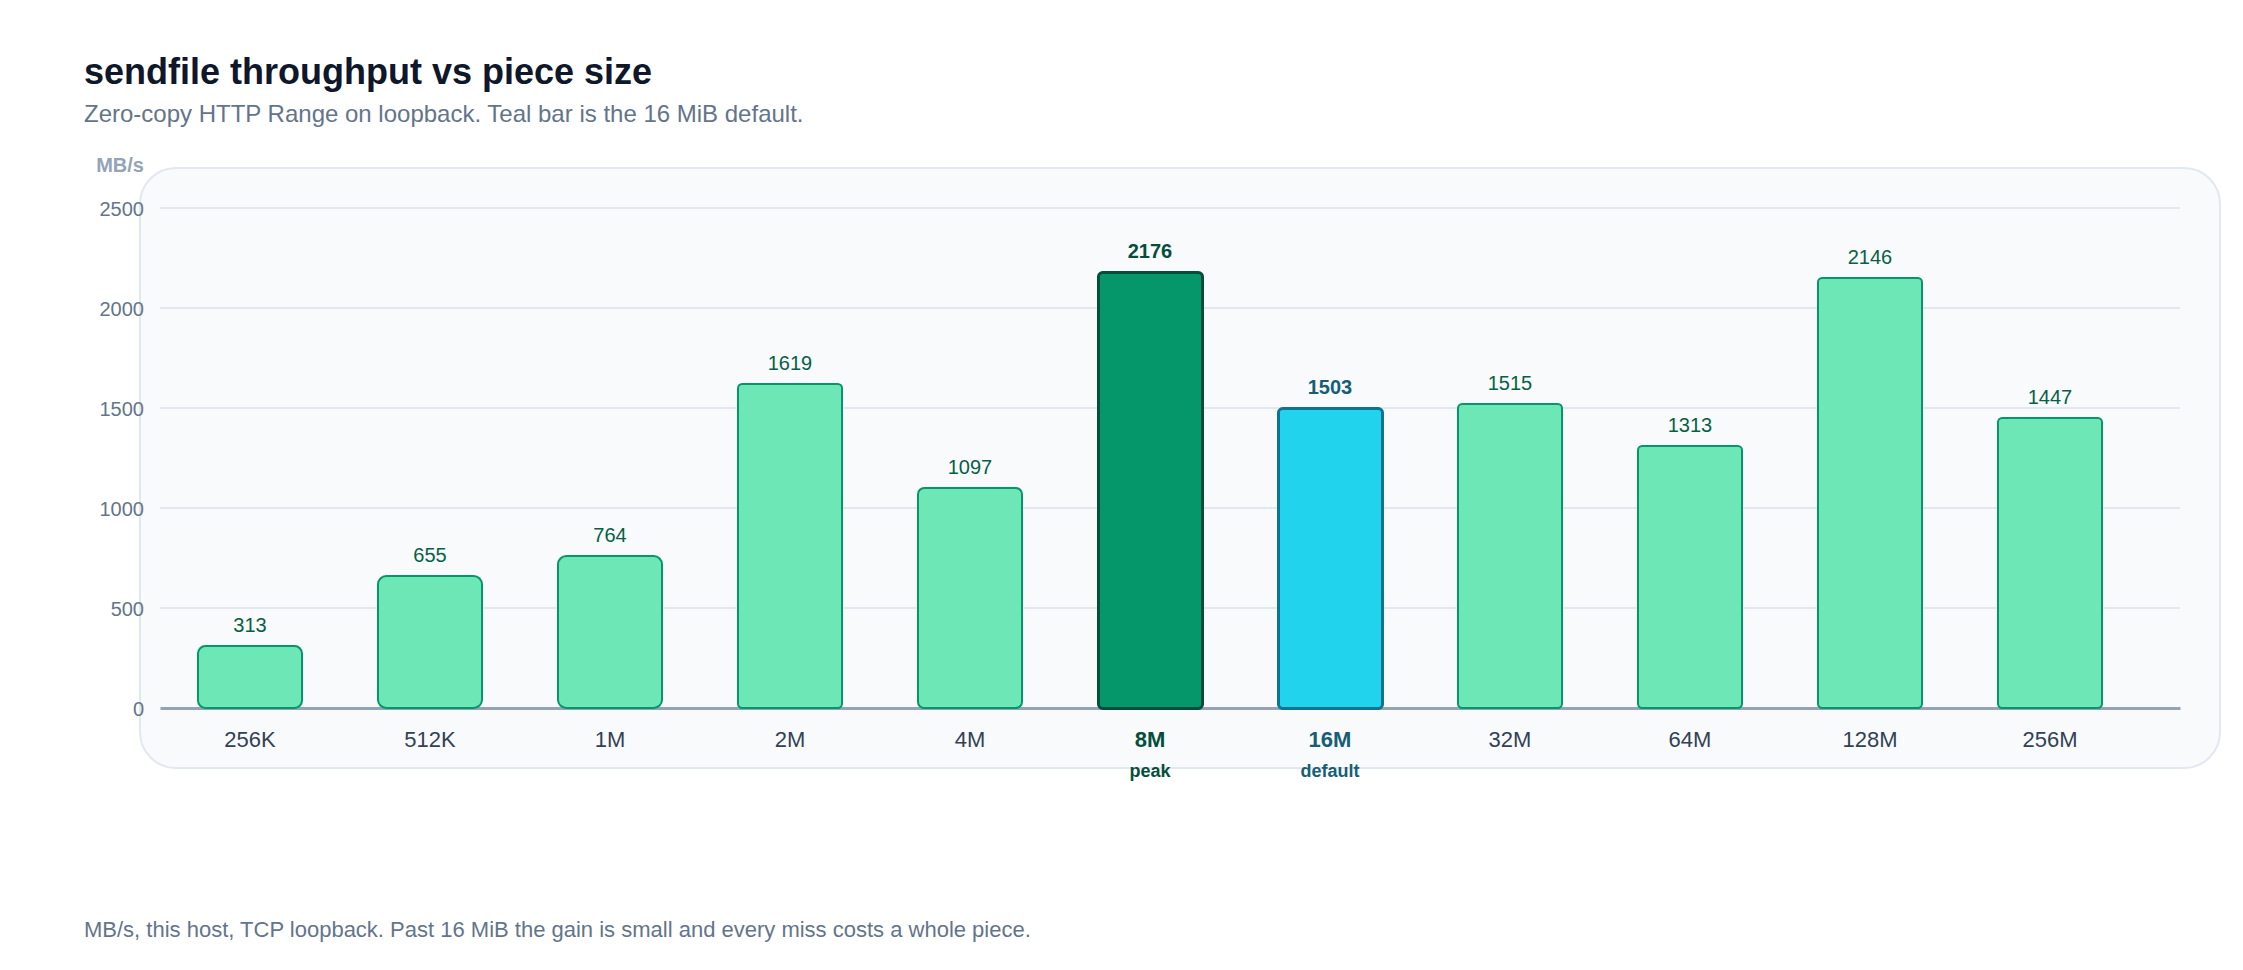
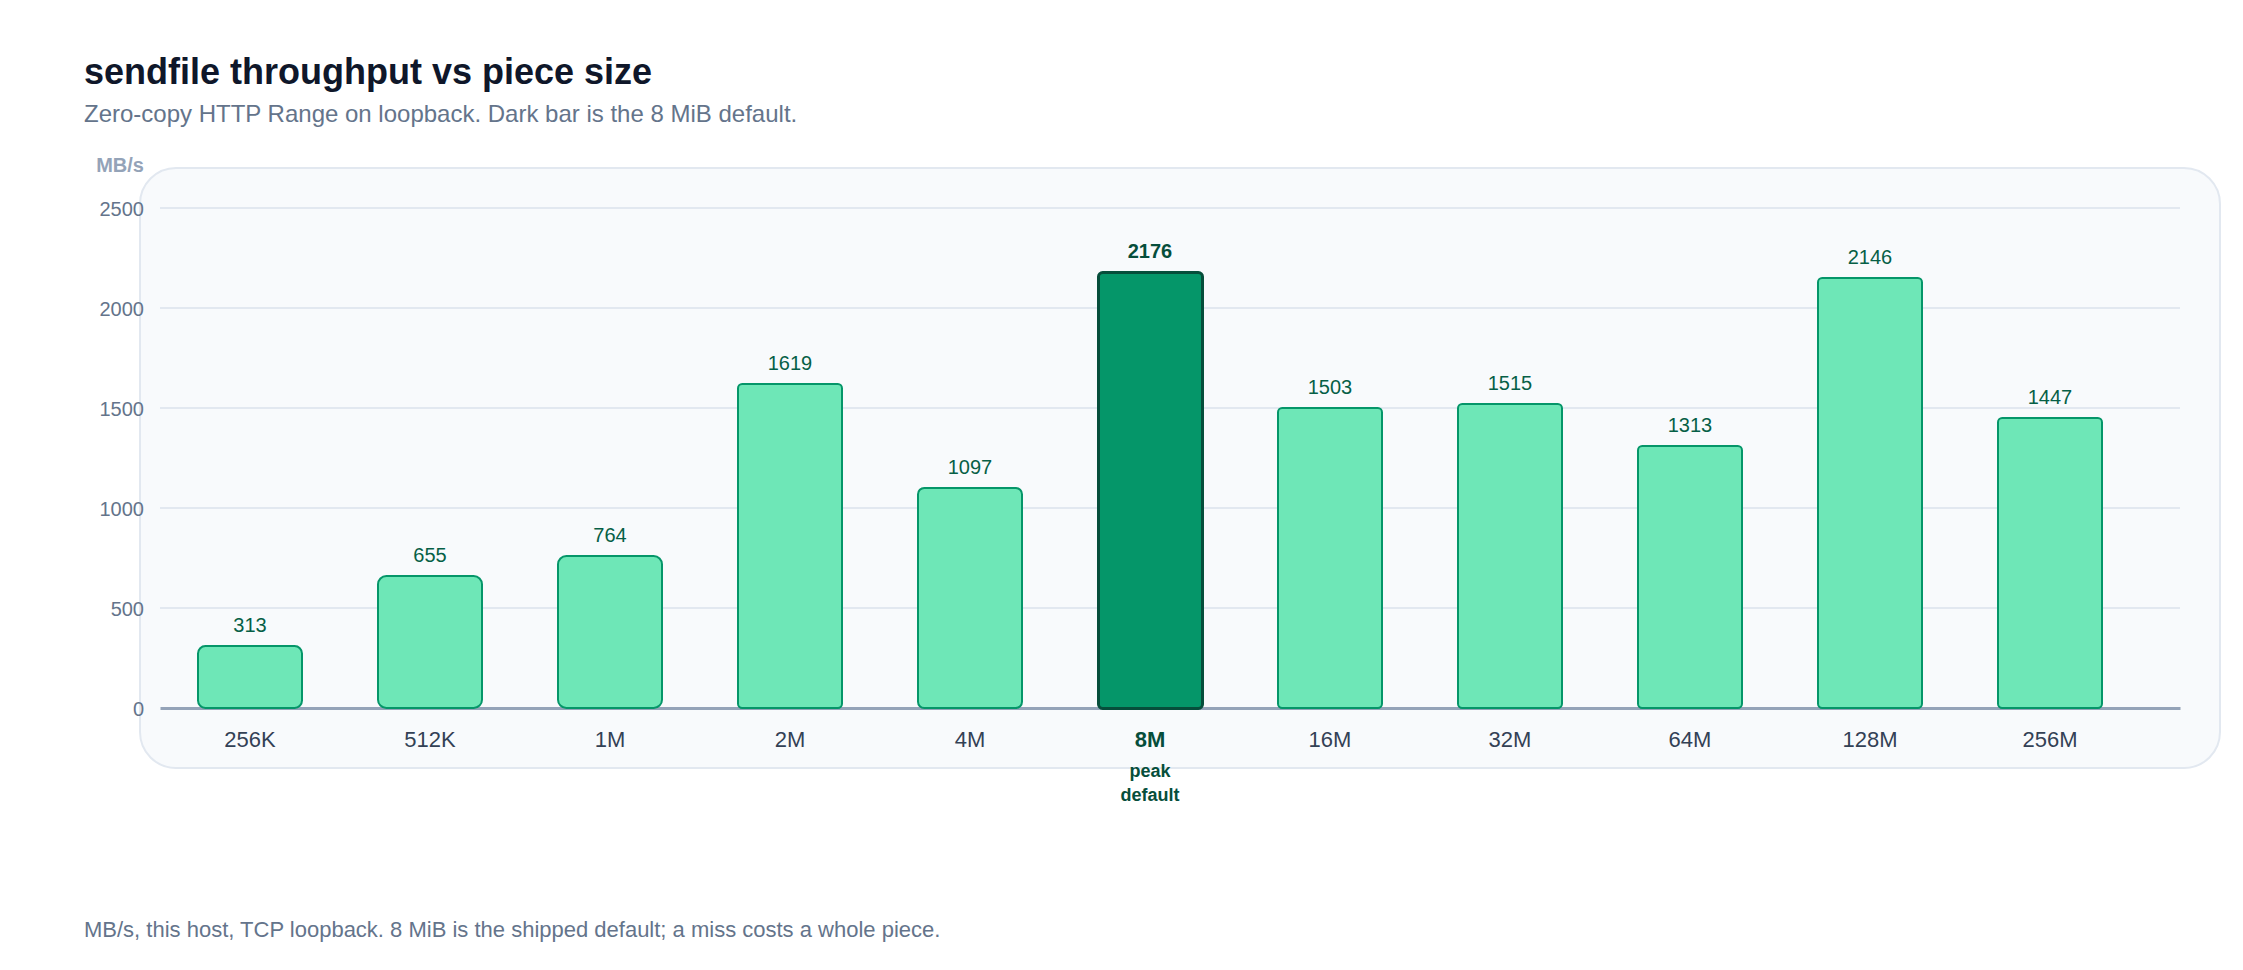
default --piece is 8 MiB, the sendfile peak on this host
piece.default_size was 16 MiB. the loopback sweep peaked at 8 MiB
(2.2 GB/s). existing 16 MiB sidecars rehydrate empty; mixed-piece
peers do not share /have bits, so remount the fleet together.

diff --git a/scripts/run_benchmarks_and_plots.py b/scripts/run_benchmarks_and_plots.py
@@ -520,7 +520,7 @@ def run_engine_io_vs_piece_size_benchmark(
 
 
 # The piece-size sweep both measured sweeps walk. 128M and 256M sit past the
-# 16M default to show where bigger chunks stop paying; every entry is a legal
+# 8M default to show where bigger chunks stop paying; every entry is a legal
 # --piece value (parseSize accepts 1024-based K/M/G up to u32 max bytes).
 _PIECE_CONFIGS = [
     ("256K", 256 * 1024),
@@ -950,7 +950,7 @@ Zero-copy `sendfile` streaming:
 
 Throughput climbs with piece size and then wobbles, which is per-request fixed
 cost being amortised against page-cache and socket-buffer effects rather than a
-clean curve. 16 MiB is the default piece: past it the gain is small, and a miss
+clean curve. 8 MiB is the default piece: it was the peak on this host, and a miss
 costs the reader the whole piece before the read returns.
 
 ![Throughput vs piece size](figures/fig2_throughput_vs_piece_size.svg)
@@ -986,8 +986,8 @@ peer issues -- across the same piece sizes:
 One file, many pieces. On this host the span slows as the piece grows -- the
 opposite corner from Benchmark 2, where bigger single-piece files fetched
 faster. Read the two sweeps together: piece size trades one-piece fetch speed
-against streaming across a real file's grid, and the 16 MiB default is a
-mid-curve choice, not a corner-case optimum.
+against streaming across a real file's grid, and the 8 MiB default is the
+one-piece sendfile peak on this host, not a span-optimum.
 
 ![HTTP span vs piece size](figures/fig5_http_span_vs_piece_size.svg)
 

diff --git a/docs/design.md b/docs/design.md
@@ -15,7 +15,7 @@ The origin became **required** (any POSIX dir both nodes see), and the mount def
 getattr and readdir hit the origin, and the page cache is off because of UMA OOM (see
 architecture.md).
 
-What runs on the sparks is a FUSE 16 MiB piece cache in front of NFS. The implementation is Zig,
+What runs on the sparks is a FUSE 8 MiB piece cache in front of NFS. The implementation is Zig,
 not Go; peers speak plain HTTP (`GET /ping`, `/have`, `/data`, `/stage`) rather than
 Have/Want/Piece frames; and membership lives in `.cluster/<id>.json` lease files on the origin
 instead of an embedded metadata store.
@@ -806,7 +806,7 @@ Status values: **Accepted** (still in force), **Partial** (part shipped), **Supe
 | Cache | Replicate-on-read, not CH cache pool | "Cache everything" means local after use | Accepted |
 | Pin | Chunk refcount; optional cluster pin | Keep the working set off LRU | Partial: path-level `pin/` marker (`modelfs pin`/`unpin`); no chunk refcount, no cluster pin |
 | Frontend | Sparse-file hydrate, then leave the I/O path | mmap for llama.cpp / vLLM | Superseded: FUSE read path with `direct_io`; agent stays in the I/O path (UMA OOM; reverses section 4.8 rules 1 and 6: getattr/readdir hit the origin, no passthrough) |
-| Pieces vs chunks | 4-16 MiB transfer, smaller CDC later | RPC vs dedup granularity | Partial: fixed 16 MiB transfer pieces; CDC dormant (section 14) |
+| Pieces vs chunks | 4-16 MiB transfer, smaller CDC later | RPC vs dedup granularity | Partial: fixed 8 MiB transfer pieces; CDC dormant (section 14) |
 | Hash | blake3 | Fast, enough collision resistance for this | Accepted: Level 1 shipped (per-piece digests, manifests, verify); content-addressed storage and wire-level identity shelved (section 14, Levels 2-3) |
 | Two-node | Embedded metadata, RF=2 | No extra store | Not shipped (origin-less RF=2). Membership is origin `.cluster/<id>.json` leases (see Origin row) |
 | Origin | Optional peer that never evicts | Same protocol | Superseded: origin is required (POSIX dir); "never evicts" holds |
@@ -814,7 +814,7 @@ Status values: **Accepted** (still in force), **Partial** (part shipped), **Supe
 | Auth | static shared secret or mTLS | No anonymous P2P | Partial: bearer PSK on plaintext HTTP; mTLS did not ship (section 9) |
 | Engines | POSIX directory | No plugins | Accepted |
 | v1 language | Go | Protocol/state bound, not CPU bound | Superseded: Zig |
-| v1 chunking | Fixed 4 MiB | CDC is additive | Superseded: 16 MiB pieces (`--piece` overrides); CDC dormant (section 14) |
+| v1 chunking | Fixed 4 MiB | CDC is additive | Superseded: 8 MiB pieces (`--piece` overrides); CDC dormant (section 14) |
 | Kubernetes | Not required for v1 | Two-node first | Accepted: no Kubernetes; one foreground binary, systemd `Type=simple` |
 
 ## 14. Content identity: shipped Level 1; Levels 2-3 shelved pending telemetry
@@ -848,7 +848,7 @@ What Level 1 deliberately does NOT do:
   `/stage` (section 15) negotiates a window for the same piece, not a
   content hash. The `X-Piece-Size` handshake and 2 s probe cache are
   untouched.
-- No CDC: dedup granularity is the fixed 16 MiB grid, so only pieces that
+- No CDC: dedup granularity is the fixed 8 MiB grid, so only pieces that
   are byte-identical whole (same grid, same size, same content regions)
   share an identity.
 
@@ -903,7 +903,7 @@ justifiable; until then it is designed, not planned.
 ## 15. Peer data transport: HTTP today, the staged (RDMA) plane designed
 
 The control plane is HTTP/1.1 + bearer PSK (`/ping`, `/have`, `/stage`,
-`/data`); the data plane moves 16 MiB pieces. This section is the roadmap
+`/data`); the data plane moves 8 MiB pieces. This section is the roadmap
 the transport seam reserves: a staged plane where a piece is registered
 into pinned memory on the serving node and pulled with an RDMA Read at
 fabric speed, with HTTP remaining the negotiation and fallback channel.
@@ -946,7 +946,7 @@ fill in:
   is today. RDMA Read matches the pull model; the `/stage` window IS the
   (addr, rkey, len) the Read needs.
 - **Registered buffers**: a pool of 16 piece-sized buffers per node
-  (matching `Server.max_inflight`; 256 MiB at 16 MiB pieces), registered
+  (matching `Server.max_inflight`; 128 MiB at 8 MiB pieces), registered
   once at mount with `IBV_ACCESS_REMOTE_READ` and nothing else -- a
   window grants exactly one piece's bytes, no broader memory access. The
   fake backend's bounded pool is this pool's in-memory stand-in.

diff --git a/docs/review-guides/simd-review.md b/docs/review-guides/simd-review.md
@@ -2,7 +2,7 @@
 
 You are a senior performance engineer whose task is to find dense loops in `src/` where vectorization is a real win, and to reject the ones where it is not.
 
-**Expect to reject most of them.** modelfs is I/O bound by construction: a warm read is an NVMe `pread`, a peer serve is `sendfile` from the page cache straight to the socket without the bytes ever entering user space, and a miss is an NFS round trip. The only sustained CPU work on a live path is blake3 over 16 MiB pieces, and that is `std.crypto`, which is already vectorized and must not be hand-rolled. A review that ships three `@Vector` kernels here has almost certainly optimized something that never appears in a profile. This differs from `zig-idiomatic-review.md`, which owns code shape, and from `zig-src-review.md`, which owns defects; a wrong SIMD kernel is a correctness defect, so anything you ship needs a scalar golden.
+**Expect to reject most of them.** modelfs is I/O bound by construction: a warm read is an NVMe `pread`, a peer serve is `sendfile` from the page cache straight to the socket without the bytes ever entering user space, and a miss is an NFS round trip. The only sustained CPU work on a live path is blake3 over 8 MiB pieces, and that is `std.crypto`, which is already vectorized and must not be hand-rolled. A review that ships three `@Vector` kernels here has almost certainly optimized something that never appears in a profile. This differs from `zig-idiomatic-review.md`, which owns code shape, and from `zig-src-review.md`, which owns defects; a wrong SIMD kernel is a correctness defect, so anything you ship needs a scalar golden.
 
 ## Execution contract
 
@@ -28,7 +28,7 @@ No kernel ships on a hunch. A candidate needs, in order:
 |---|---|---|
 | `Bitfield.filled` (src/piece.zig) | population count over the bitfield | **Already done.** `@popCount` over `u64` words with a byte tail. Confirm the word loop survives; do not widen to `@Vector` without a measured win, since bitfields are KiB-scale |
 | `Bitfield.lastSet` (src/piece.zig) | reverse scan for the top set bit | **Already done.** Word-at-a-time backward scan with `@clz`. Same rule |
-| `piece.digest` (src/piece.zig) | blake3 over one 16 MiB piece | **Reject: use the stdlib.** `std.crypto.hash.Blake3` is the implementation. Hand-rolling a hash is a correctness and security regression, not an optimization |
+| `piece.digest` (src/piece.zig) | blake3 over one 8 MiB piece | **Reject: use the stdlib.** `std.crypto.hash.Blake3` is the implementation. Hand-rolling a hash is a correctness and security regression, not an optimization |
 | `containsControl` / `containsControlBytes` (src/proto.zig) | byte classification over a path | **Usually reject.** Inputs are path-length, so per-call fixed cost dominates. Only a candidate if a profile shows a metadata storm spending real time here |
 | `decodePath` (src/peer.zig) | percent-decode a request target | **Usually reject.** Same reason: bounded by path length, once per request |
 | `manifestOverlap` / `manifestOverlapPrepared` / `digestSorted` (src/piece.zig) | compare and sort per-piece digest arrays | **The best remaining candidate.** `dupes --all` scans every manifest on the origin, so the entry count scales with the store, not with one request. Measure before touching, and note it is a CLI path, not a serve path |

diff --git a/README.md b/README.md
@@ -8,7 +8,7 @@ A POSIX `/models` mount for LLM weights. One Zig binary per node: FUSE via `libf
 | :--- | :--- |
 | `/net/<nas>/models` | NFS origin, the read/write authority. Required |
 | `/models` | FUSE mount point on the GPU nodes |
-| `/var/cache/modelfs` | local NVMe piece cache, 16 MiB pieces |
+| `/var/cache/modelfs` | local NVMe piece cache, 8 MiB pieces |
 | `:18080` | peer HTTP protocol, PSK bearer auth |
 
 <img src="docs/figures/read-path.png" alt="Read path: local NVMe, then a cluster peer, then the NFS origin" width="900">
@@ -95,7 +95,7 @@ then serves it. Files already there at the listed size are skipped, so a rerun r
 | `--listen [IP:]PORT` | `18080` | peer port; the IP is ignored, binding is always all interfaces |
 | `--advertise IP[:PORT],...` | every non-loopback IPv4 except 169.254 | replaces the auto-detected list, not additive |
 | `--seed HOST[:PORT]` | none | peer to try while `.cluster` has no live lease; repeatable |
-| `--piece SIZE` | `16M` | piece size |
+| `--piece SIZE` | `8M` | piece size |
 | `--direct-io` / `--kernel-cache` | `--direct-io` | the page cache is off by default because it is UMA RAM shared with the GPU; turning it on permits mmap and can OOM |
 | `--allow-other` | off | the only way a uid other than the mounter reaches the mount; needs `user_allow_other` |
 | `--detach` / `-f` | `-f` | background after mount, or stay in the foreground |
@@ -126,13 +126,12 @@ Measured with nine `modelfs` instances on **one host over TCP loopback**, not ac
 
 | Benchmark | Result |
 | :--- | :--- |
-| Peak `sendfile` throughput (8 MiB pieces) | 2.2 GB/s |
-| `sendfile` at 16 MiB default | 1.5 GB/s |
+| Peak `sendfile` throughput (8 MiB default) | 2.2 GB/s |
 | `/ping` sweep across 9 instances | 1.4 ms total |
 
-<img src="docs/figures/throughput-vs-piece.png" alt="sendfile throughput vs piece size, 256 KiB to 256 MiB. Peak 2176 MB/s at 8 MiB; 1503 MB/s at the 16 MiB default." width="900">
+<img src="docs/figures/throughput-vs-piece.png" alt="sendfile throughput vs piece size, 256 KiB to 256 MiB. Peak 2176 MB/s at the 8 MiB default." width="900">
 
-The piece-size sweep is why the default piece is 16 MiB: past it the gain is small, and every miss costs the reader a whole piece before the read returns.
+The piece-size sweep is why the default piece is 8 MiB: it was the peak on this host, and every miss costs the reader a whole piece before the read returns.
 
 ## Tests
 

diff --git a/docs/architecture.md b/docs/architecture.md
@@ -3,7 +3,7 @@
 | Field | Value |
 |---|---|
 | Status | Shipped-behavior reference; kept current against `src/` |
-| Date | 2026-09-02 (re-verified against `src/`) |
+| Date | 2026-09-12 (re-verified against `src/`) |
 | Design history | [design.md](design.md): original architecture, goals G1-G10 with ship status, key decisions and what did not ship |
 
 Shipped in `modelfs` (Zig, libfuse3). A process on a spark only opens `/models/...`.
@@ -217,7 +217,7 @@ score = ewma_goodput_bps / (1 + hops) / (1 + inflight)
   measured transfer (a successful piece fetch, not a `/have` probe) is 100 MB/s; a lease `mbps`
   (Mbit/s) is converted to B/s instead when nonzero. `rangeBps` returns 0, and
   `Catalog.updateGoodput` ignores the sample, for a non-positive, non-finite, or >1 TB/s rate
-  (zero or 1 ns elapsed on a 16 MiB piece), so it cannot pull the EWMA toward 0 B/s or toward
+  (zero or 1 ns elapsed on an 8 MiB piece), so it cannot pull the EWMA toward 0 B/s or toward
   an infinitely fast path.
 - **hops**: 0 if the same IPv4 /24 as a local address, else 1.
 - **inflight**: pieces already assigned to that path.
@@ -388,7 +388,7 @@ root-reserved `f_bfree`.
 | `--bcull` | 7 | start culling |
 | `--bstop` | 3 | cull harder |
 
-Culling punches piece-sized holes (default 16 MiB, `FALLOC_FL_PUNCH_HOLE`), clears that bit,
+Culling punches piece-sized holes (default 8 MiB, `FALLOC_FL_PUNCH_HOLE`), clears that bit,
 and leaves the sparse file. The next read hydrates that piece again.
 
 Live entries are LRU by last access: FUSE reads, fills, and peer `/data`/`/stage` transfers

diff --git a/docs/benchmarks.md b/docs/benchmarks.md
@@ -51,7 +51,7 @@ Zero-copy `sendfile` streaming:
 
 Throughput climbs with piece size and then wobbles, which is per-request fixed
 cost being amortised against page-cache and socket-buffer effects rather than a
-clean curve. 16 MiB is the default piece: past it the gain is small, and a miss
+clean curve. 8 MiB is the default piece: it was the peak on this host, and a miss
 costs the reader the whole piece before the read returns.
 
 ![Throughput vs piece size](figures/fig2_throughput_vs_piece_size.svg)
@@ -107,8 +107,8 @@ peer issues -- across the same piece sizes:
 One file, many pieces. On this host the span slows as the piece grows -- the
 opposite corner from Benchmark 2, where bigger single-piece files fetched
 faster. Read the two sweeps together: piece size trades one-piece fetch speed
-against streaming across a real file's grid, and the 16 MiB default is a
-mid-curve choice, not a corner-case optimum.
+against streaming across a real file's grid, and the 8 MiB default is the
+one-piece sendfile peak on this host, not a span-optimum.
 
 ![HTTP span vs piece size](figures/fig5_http_span_vs_piece_size.svg)
 

diff --git a/CHANGELOG.md b/CHANGELOG.md
@@ -2,9 +2,12 @@
 
 ## [Unreleased]
 
+### Default piece size 8 MiB - 2026-09-12
+- **Default `--piece` is 8 MiB** (`piece.default_size`). The loopback sendfile sweep peaked there (2.2 GB/s). Existing 16 MiB sidecars are a geometry mismatch and rehydrate empty. Mixed-piece peers do not share `/have` bits; remount the fleet together.
+
 ### Docs - 2026-09-12
 - **Read-path diagram** in the README and architecture.md is a draw.io figure (`docs/figures/read-path.drawio`, rendered PNG) instead of mermaid. The README throughput chart is the same treatment (`docs/figures/throughput-vs-piece.drawio`).
-- **Benchmarks regenerated** on this host. Peak `sendfile` is 2.2 GB/s at 8 MiB pieces (1.5 GB/s at the 16 MiB default); `/ping` across 9 instances is 1.4 ms. Full tables in [docs/benchmarks.md](docs/benchmarks.md).
+- **Benchmarks regenerated** on this host. Peak `sendfile` is 2.2 GB/s at the 8 MiB default; `/ping` across 9 instances is 1.4 ms. Full tables in [docs/benchmarks.md](docs/benchmarks.md).
 
 ## [0.10.0] - 2026-09-04
 
